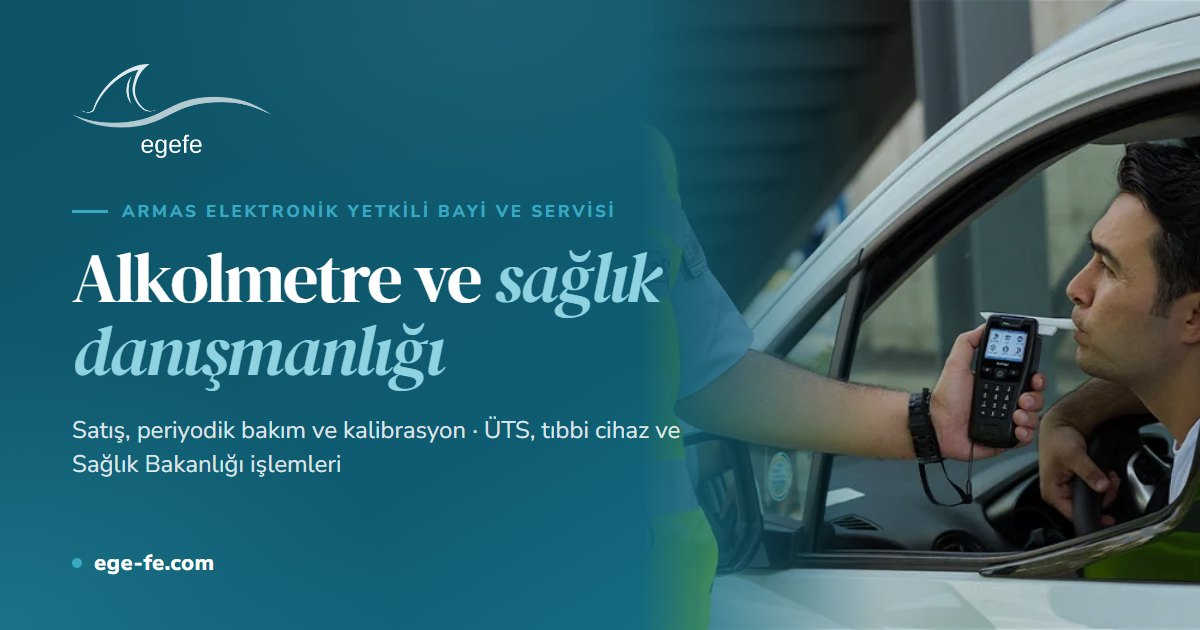
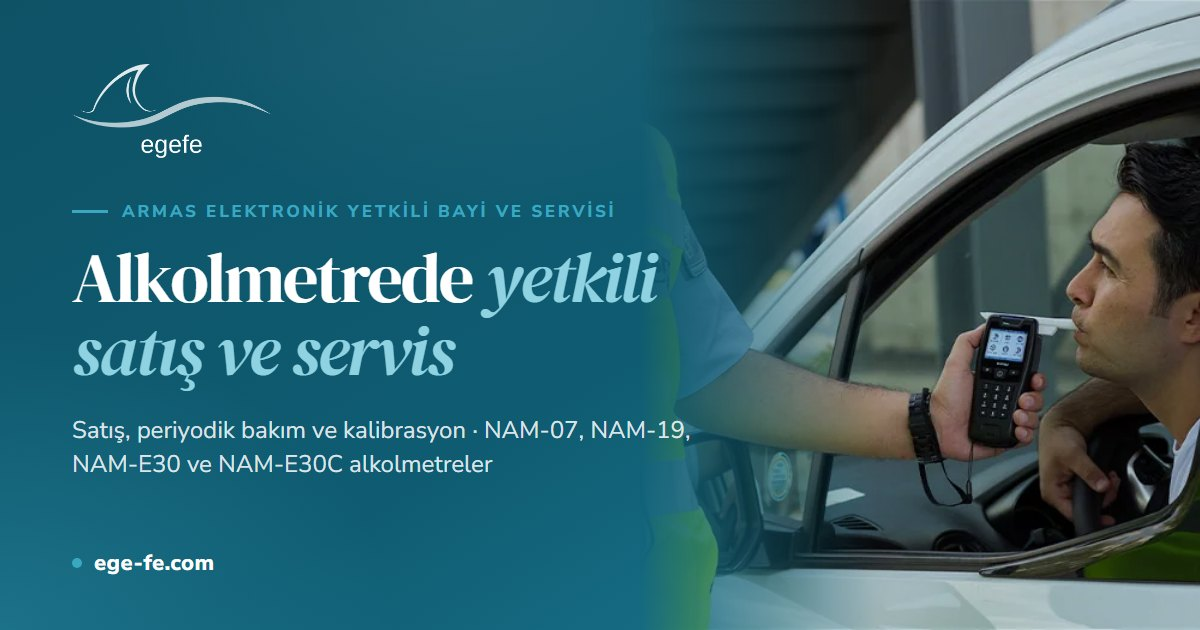
Danışmanlık bölümü pasife alındı (tek anahtar: DANISMANLIK_AKTIF)

diff --git a/site/css/style.css b/site/css/style.css
@@ -380,6 +380,7 @@ a.kart:focus-visible { outline-offset: 4px; border-radius: var(--yaricap); }
 .acilis-gorsel::after, .yazi .banner::after { background: linear-gradient(to top, rgba(0, 0, 0, .6) 0%, rgba(0, 0, 0, .15) 35%, transparent 60%); }
 /* Giriş kartları: üç ziyaretçi grubu (ürün / servis / danışmanlık) — 1 tıkla doğru sayfa */
 .giris-kartlari { list-style: none; margin: clamp(2rem, 5vw, 3.5rem) 0 0; padding: 0; display: grid; grid-template-columns: repeat(3, 1fr); gap: var(--b-5); }
+.giris-kartlari-2 { grid-template-columns: repeat(2, 1fr); } /* Danışmanlık pasifken iki kart */
 .giris-kartlari li { display: flex; }
 .giris-karti {
   position: relative; z-index: var(--z-yukseltilmis); flex: 1;
@@ -740,6 +741,7 @@ a.kart:focus-visible { outline-offset: 4px; border-radius: var(--yaricap); }
     radial-gradient(ellipse 40% 50% at 100% 100%, rgba(14, 82, 102, .45) 0%, transparent 60%),
     var(--slate-dark);
 }
+.site-alt-ic-4 { grid-template-columns: 1.3fr 1fr 1fr 1.3fr !important; } /* Danışmanlık sütunu pasifken */
 .site-alt-ic { display: grid; grid-template-columns: 1.3fr 1fr 1.1fr 1fr 1.3fr; gap: var(--b-8); padding-top: clamp(3rem, 6vw, 4.5rem); padding-bottom: var(--b-9); }
 .site-alt-marka { display: flex; flex-direction: column; align-items: flex-start; gap: var(--b-4); }
 /* Koyu zeminde rehberdeki onaylı beyaz (koyu zemin) logo varyantı */
@@ -780,7 +782,8 @@ a.kart:focus-visible { outline-offset: 4px; border-radius: var(--yaricap); }
   .kenar { position: static; }
   .kartlar-3, .yazi-kartlari { grid-template-columns: repeat(2, 1fr); }
   .hub-kartlar > .kart { flex-basis: calc((100% - var(--b-5)) / 2); }
-  .site-alt-ic { grid-template-columns: 1fr 1fr 1fr; }
+  .site-alt-ic, .site-alt-ic-4 { grid-template-columns: 1fr 1fr 1fr !important; }
+  .site-alt-ic-4 { grid-template-columns: 1fr 1fr !important; }
   .site-alt-marka, .site-alt-ic > :last-child { grid-column: 1 / -1; }
   .urun-servis { grid-template-columns: 1fr; gap: var(--b-5); }
   .marka-bant-ic { grid-template-columns: 1fr; }
@@ -807,7 +810,7 @@ a.kart:focus-visible { outline-offset: 4px; border-radius: var(--yaricap); }
   .marka-bant-logo .marka-logo { width: 200px; }
   .urun-servis { padding: var(--b-6); }
   /* Footer: bağlantı sütunları ikili, marka ve iletişim tam genişlik → daha kısa footer */
-  .site-alt-ic { grid-template-columns: 1fr 1fr; gap: var(--b-7) var(--b-5); }
+  .site-alt-ic { grid-template-columns: 1fr 1fr !important; gap: var(--b-7) var(--b-5); }
   .yazi-gezinme { grid-template-columns: 1fr; }
   .yazi-gezinme .sonraki { text-align: left; }
   .cta-kart .dugme { width: 100%; }

diff --git a/site/index.php b/site/index.php
@@ -5,6 +5,7 @@ $yol = '/';
 $sayfa = ['ozelBaslik' => true, 'govdeSinif' => 'anasayfa'];
 require __DIR__ . '/inc/header.php';
 $crom = !empty($MARKA['aktif']); // CROM TEST pasifken hiçbir yerde görünmez (config.php)
+$dan = DANISMANLIK_AKTIF; // Danışmanlık pasifken hiçbir yerde görünmez (config.php)
 ?>
 <section class="acilis">
   <div class="kap acilis-ic">
@@ -14,12 +15,12 @@ $crom = !empty($MARKA['aktif']); // CROM TEST pasifken hiçbir yerde görünmez 
       <h1>Alkolmetre, uyuşturucu testi ve <em>sağlık danışmanlığı</em></h1>
       <?php else: ?>
       <p class="etiket">Armas Elektronik Yetkili Bayi ve Servisi</p>
-      <h1>Alkolmetre ve <em>sağlık danışmanlığı</em></h1>
+      <?php if ($dan): ?><h1>Alkolmetre ve <em>sağlık danışmanlığı</em></h1><?php else: ?><h1>Alkolmetrede <em>yetkili satış ve servis</em></h1><?php endif; ?>
       <?php endif; ?>
       <?php if ($crom): ?>
       <p class="giris">Armas Elektronik'in yetkili bayi ve servisi olarak alkolmetrelerin satışını, bakımını ve kalibrasyonunu yapıyoruz. Uyuşturucu madde taramasında kendi markamız CROM TEST'in yerli üretim test kitlerini sunuyor; tıbbi cihaz, ÜTS ve Sağlık Bakanlığı işlemlerinde danışmanlık veriyoruz.</p>
       <?php else: ?>
-      <p class="giris">Armas Elektronik'in yetkili bayi ve servisi olarak alkolmetrelerin satışını, bakımını ve kalibrasyonunu yapıyoruz. Tıbbi cihaz, ÜTS ve Sağlık Bakanlığı işlemlerinde de danışmanlık veriyoruz.</p>
+      <p class="giris">Armas Elektronik'in yetkili bayi ve servisi olarak alkolmetrelerin satışını, bakımını ve kalibrasyonunu yapıyoruz.<?php if ($dan): ?> Tıbbi cihaz, ÜTS ve Sağlık Bakanlığı işlemlerinde de danışmanlık veriyoruz.<?php endif; ?></p>
       <?php endif; ?>
       <div class="dugme-grubu">
         <a class="dugme dugme-birincil" href="/urunler/">Ürünleri İncele</a>
@@ -32,7 +33,7 @@ $crom = !empty($MARKA['aktif']); // CROM TEST pasifken hiçbir yerde görünmez 
   </div>
   <div class="kap">
     <h2 class="gizli">Ne arıyorsunuz?</h2>
-    <ul class="giris-kartlari">
+    <ul class="giris-kartlari<?= $dan ? '' : ' giris-kartlari-2' ?>">
       <li>
         <a class="giris-karti" href="/urunler/">
           <span class="giris-karti-ikon"><?= ikon('device-mobile-check', 24) ?></span>
@@ -56,6 +57,7 @@ $crom = !empty($MARKA['aktif']); // CROM TEST pasifken hiçbir yerde görünmez 
           <span class="ok-link">Servis hizmetleri</span>
         </a>
       </li>
+      <?php if ($dan): ?>
       <li>
         <a class="giris-karti" href="/danismanlik/">
           <span class="giris-karti-ikon"><?= ikon('briefcase', 24) ?></span>
@@ -65,6 +67,7 @@ $crom = !empty($MARKA['aktif']); // CROM TEST pasifken hiçbir yerde görünmez 
           <span class="ok-link">Danışmanlık alanları</span>
         </a>
       </li>
+      <?php endif; ?>
     </ul>
   </div>
 </section>

diff --git a/site/inc/header.php b/site/inc/header.php
@@ -2,6 +2,8 @@
 // Ortak üst bölüm: <head>, SEO meta, JSON-LD, site başlığı/menü ve sayfa başlık alanı (tek H1).
 // Kullanım (sayfada): $yol = '/hakkimizda/'; [$sayfa = [...];] require .../inc/header.php;
 require_once __DIR__ . '/config.php';
+// Danışmanlık pasifken bu bölümün sayfaları geçici olarak (302) anasayfaya yönlenir
+if (!DANISMANLIK_AKTIF && isset($yol)) foreach (DANISMANLIK_YOLLARI as $dy) if (str_starts_with($yol, $dy)) { header('Location: /', true, 302); exit; }
 $META = require __DIR__ . '/meta.php';
 $HIZMET = require __DIR__ . '/hizmetler.php';
 $sayfa = $sayfa ?? [];
@@ -125,6 +127,7 @@ $blogAktif = $yol === '/blog/' || $yol === '/category/saglik/' || ($m['ogType'] 
             <li><a href="/bilgi/"<?= aktif('/bilgi/', $yol) ?>>Bilgi</a></li>
           </ul>
         </li>
+        <?php if (DANISMANLIK_AKTIF): ?>
         <li class="alt-var mega<?= $danismanlikAktif ? ' aktif' : '' ?>">
           <a href="/danismanlik/">Danışmanlık</a>
           <button class="alt-ac" type="button" aria-expanded="false" aria-label="Danışmanlık alt menüsü"></button>
@@ -142,6 +145,7 @@ $blogAktif = $yol === '/blog/' || $yol === '/category/saglik/' || ($m['ogType'] 
             <?php endforeach; ?>
           </div>
         </li>
+        <?php endif; ?>
         <li class="alt-var<?= $kurumsalAktif ? ' aktif' : '' ?>">
           <a href="/hakkimizda/">Kurumsal</a>
           <button class="alt-ac" type="button" aria-expanded="false" aria-label="Kurumsal alt menüsü"></button>

diff --git a/site/inc/cta.php b/site/inc/cta.php
@@ -14,7 +14,7 @@ $ctaMetin = [
   'servis'      => ['Servis', 'Cihazınızın bakım ya da kalibrasyon zamanı mı geldi?', 'Arıza, periyodik bakım ve kalibrasyon için bize ulaşın; cihazınızın servis sürecini başlatalım.', 'Teknik Destek'],
   'urun'        => ['Ürünler', 'Kurumunuz için alkolmetre mi arıyorsunuz?', 'NAM-07, NAM-19, NAM-E30 ve NAM-E30C alkolmetreler için fiyat teklifi alın.', 'Ürünler'],
   'danismanlik' => ['Danışmanlık', 'Başvurunuz için danışmanlık mı arıyorsunuz?', 'ÜTS, tıbbi cihaz ve Sağlık Bakanlığı işlemlerinizle ilgili ihtiyacınızı bize iletin, size dönüş yapalım.', 'Hizmetler'],
-  'genel'       => ['Bize Ulaşın', 'Sorunuz mu var? Size yardımcı olalım.', 'Ürünler, servis ve danışmanlık hizmetlerimiz hakkında bilgi almak için bize ulaşın.', ''],
+  'genel'       => ['Bize Ulaşın', 'Sorunuz mu var? Size yardımcı olalım.', DANISMANLIK_AKTIF ? 'Ürünler, servis ve danışmanlık hizmetlerimiz hakkında bilgi almak için bize ulaşın.' : 'Ürünlerimiz ve servis hizmetlerimiz hakkında bilgi almak için bize ulaşın.', ''],
 ][$ctaBolum];
 [$ctaEtiket, $ctaBaslik, $ctaAciklama, $ctaKonu] = $ctaMetin;
 $ctaForm = '/iletisim/' . ($ctaKonu !== '' ? '?konu=' . rawurlencode($ctaKonu) : '') . '#form';

diff --git a/site/hakkimizda/index.php b/site/hakkimizda/index.php
@@ -13,7 +13,7 @@ require __DIR__ . '/../inc/header.php';
 <p>Hizmet kalitesini üst seviyeye yükselterek ve müşteri memnuniyetini ön planda tutarak, ilişkilerimizi saygı, adalet, vicdan, dürüstlük temelleri üzerine kuran ve bunu yürüten; sağlık alanında yapacağı çalışmalar ile ülkemizde ve dünyada örnek olabilecek bir şirket olmayı misyon edindik.</p>
 <p>Sağlık sektöründe gelişen teknolojileri takip ederek; beklentileri karşılayıp hizmetlerin sürekli geliştirilmesi ve kusursuzlaştırılmasını sağlamayı vizyon edindik.</p>
 <h2>Neler Yaparız?</h2>
-<ul class="neler-liste"><li><a href="/ariza-ve-onarim/">Bakım Onarım</a></li><li><a href="/kalibrasyon/">Kalibrasyon</a></li><li><a href="/bilgi/">Yedek Parça</a></li><li><a href="/danismanlik/">Eğitim Danışmanlık</a></li><li><a href="/danismanlik/">ÜTS, Tıbbi Cihaz, İlaç</a></li><li><span>AR-GE Çözümleri</span></li></ul>
+<ul class="neler-liste"><li><a href="/ariza-ve-onarim/">Bakım Onarım</a></li><li><a href="/kalibrasyon/">Kalibrasyon</a></li><li><a href="/bilgi/">Yedek Parça</a></li><li><span>AR-GE Çözümleri</span></li></ul>
   </article>
 </div>
 <?php $markaTur = 'bant'; require __DIR__ . '/../inc/marka-crom.php'; ?>

diff --git a/site/inc/config.php b/site/inc/config.php
@@ -28,6 +28,12 @@ $FIRMA = [
   'slogan'      => 'Sağlık sektöründe yaptığı inovatif çözümler ile güven, kalite ve memnuniyetin öncüsü.',
 ];
 
+// DANIŞMANLIK — PASİF (kullanıcı kararı 2026-10-02): kullanıcı "aktife al" diyene kadar danışmanlık bölümü
+// (menü, footer, anasayfa kartı, hub ve alt sayfalar, paylaşım metinleri) hiçbir yerde görünmez; sayfalar 302 ile anasayfaya gider.
+// true yapınca: `node tools/build.mjs` + `node tools/paylasim.mjs` çalıştırın (ikisi de bu satırı okur).
+define('DANISMANLIK_AKTIF', false);
+const DANISMANLIK_YOLLARI = ['/danismanlik/', '/uts/', '/tibbi-cihaz/', '/saglik-bakanligi-islemleri/', '/diger-hizmetler/', '/ilac/'];
+
 // Markamız: CROM TEST — Egefe'nin yerli üretim uyuşturucu madde tarama test kitleri markası (kullanıcı, 2026-10-01).
 // Metinler cromtest.com'daki kendi tanımından; adresler canlı sitede doğrulandı (products.html#coklu|tekli|tam filtreleri).
 $MARKA = [

diff --git a/site/hizmetler/index.php b/site/hizmetler/index.php
@@ -6,6 +6,6 @@ $hubGiris = $GIRIS[$yol];
 $hubBaslik = 'Cihaz <em>Servis</em> Hizmetleri';
 $hubKartlar = $HIZMET['servis']['alt'];
 $hubKartlar[] = ['yol' => '/bilgi/', 'ad' => 'Bilgi', 'ozet' => 'Periyodik bakım, teknik servis, yedek parça ve NAM-07/NAM-19 cihazları hakkında sık sorulan sorular.', 'link' => 'Soruları incele'];
-$hubEk = ['baslik' => '<em>Danışmanlık</em> Hizmetleri', 'kartlar' => array_map(fn($h) => ['yol' => $h['yol'], 'ad' => $h['ad'], 'ozet' => $h['giris']], $HIZMET['danismanlik'])];
+if (DANISMANLIK_AKTIF) $hubEk = ['baslik' => '<em>Danışmanlık</em> Hizmetleri', 'kartlar' => array_map(fn($h) => ['yol' => $h['yol'], 'ad' => $h['ad'], 'ozet' => $h['giris']], $HIZMET['danismanlik'])];
 require __DIR__ . '/../inc/hub.php';
 require __DIR__ . '/../inc/footer.php';

diff --git a/site/inc/meta.php b/site/inc/meta.php
@@ -2,8 +2,8 @@
 // ÜRETİLDİ: tools/build.mjs — elle düzenlemeler bir sonraki üretimde ezilir (açıklamalar hariç: bkz. inc/meta.php başı)
 return [
   '/' => [
-    'title' => 'Egefe Sağlık Bilişim A.Ş. | Alkolmetre, Servis ve Sağlık Danışmanlığı',
-    'desc' => 'Armas Elektronik yetkili bayi ve servisi Egefe: alkolmetre satış, bakım ve kalibrasyon; tıbbi cihaz, ÜTS ve Sağlık Bakanlığı danışmanlığı.',
+    'title' => 'Egefe Sağlık Bilişim A.Ş. | Alkolmetre Satış, Servis ve Kalibrasyon',
+    'desc' => 'Armas Elektronik yetkili bayi ve servisi Egefe: NAM-07, NAM-19, NAM-E30 ve NAM-E30C alkolmetrelerin satışı, periyodik bakımı ve kalibrasyonu.',
     'h1' => 'Anasayfa',
     'ust' => null,
     'og' => '/img/paylasim.jpg',

diff --git a/site/inc/footer.php b/site/inc/footer.php
@@ -1,7 +1,7 @@
 </main>
 
 <footer class="site-alt">
-  <div class="kap site-alt-ic">
+  <div class="kap site-alt-ic<?= DANISMANLIK_AKTIF ? '' : ' site-alt-ic-4' ?>">
     <div class="site-alt-marka">
       <a class="logo-alan" href="/" aria-label="Egefe — Anasayfa"><img src="/img/logo-koyu.png" alt="Egefe" width="1568" height="756"></a>
       <p class="site-alt-slogan"><?= e($FIRMA['slogan']) ?></p>
@@ -25,6 +25,7 @@
         <li><a href="/bilgi/">Bilgi</a></li>
       </ul>
     </div>
+    <?php if (DANISMANLIK_AKTIF): ?>
     <div>
       <h2 class="site-alt-baslik">Danışmanlık</h2>
       <ul>
@@ -33,6 +34,7 @@
         <?php endforeach; ?>
       </ul>
     </div>
+    <?php endif; ?>
     <div>
       <h2 class="site-alt-baslik">Kurumsal</h2>
       <ul>

diff --git a/kaynak/KURULUM-RAPORU.md b/kaynak/KURULUM-RAPORU.md
@@ -286,3 +286,10 @@ Kullanıcı kararı: Armas profesyonel alkolmetrelerden NAM-E30 (yazıcılı) ve
 - Blog paylaşım açıklamaları: "… için tıklayınız…" / başlık tekrarı olanlar yazının ilk tam cümleleriyle değişti.
 - 2026-10-02: Paylaşım görseli ortalı yeniden tasarlandı (WhatsApp küçük önizlemede ortadan kare kırpar → logo + başlık ortadaki karede); og:image adresine sürüm eki (?v=dosya tarihi).
 - 2026-10-02: Kullanıcı tercihi — paylaşım görselinde önceki (solda yazı, sağda fotoğraf) tasarıma dönüldü; sürüm eki korunuyor.
+
+## Revizyon 14 (2026-10-02) — DANIŞMANLIK PASİF
+Kullanıcı kararı: danışmanlık bölümü kullanıcı "aktife al" diyene kadar hiçbir yerde görünmez.
+- Tek anahtar: site/inc/config.php → define('DANISMANLIK_AKTIF', false). tools/build.mjs (DAN_AKTIF) ve tools/paylasim.mjs aynı satırı okur.
+- Pasifken: menüde Danışmanlık (mega menü) yok; footer Danışmanlık sütunu yok (4 sütun); anasayfa başlığı "Alkolmetrede yetkili satış ve servis", Danışmanlık giriş kartı yok (2 kart); Servis sayfasında "Danışmanlık Hizmetleri" yok; Hakkımızda "Eğitim Danışmanlık" ve "ÜTS, Tıbbi Cihaz, İlaç" maddeleri yok; sayfa sonu bandı "Ürünlerimiz ve servis hizmetlerimiz"; anasayfa title/description ve paylaşım görseli danışmanlıksız.
+- /danismanlik/, /uts/, /tibbi-cihaz/, /saglik-bakanligi-islemleri/, /diger-hizmetler/, /ilac/ ve alt sayfaları → 302 anasayfa; site haritasından çıktı (65 → 38 URL). Dosyalar sunucuda duruyor.
+- Aktife almak: true yap → node tools/build.mjs → node tools/paylasim.mjs → commit + push.
